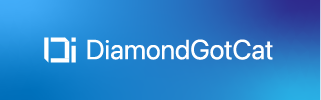
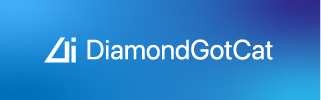
no description

Changed region(s): [[0.1246, 0.36, 0.2181, 0.63]]

diff --git a/templates/header.html b/templates/header.html
@@ -1,11 +1,11 @@
 <header>
     <div class="mx-auto flex h-16 max-w-screen-xl items-center gap-8 px-4 sm:px-6 lg:px-8">
         <a href="/" class="block dark:hidden">
-            <img src="https://diamondgotcat.net/icons/Black-on-White.png" width="50">
+            <img class="invert" src="https://diamondgotcat.net/icons/dgc-black.png" width="50">
         </a>
 
         <a href="/" class="hidden dark:block">
-            <img src="https://diamondgotcat.net/icons/White-on-Black.png" width="50">
+            <img class="" src="https://diamondgotcat.net/icons/dgc-black.png" width="50">
         </a>
 
         <div class="flex flex-1">
